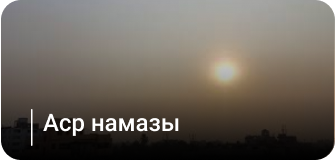
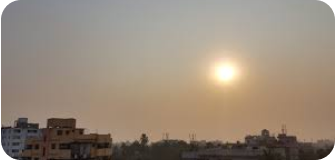
update page

diff --git a/lib/modules/home/view/besh_ubak_namaz.dart b/lib/modules/home/view/besh_ubak_namaz.dart
@@ -7,9 +7,8 @@ import '../../../components/models/namaz_page_model.dart';
 
 
 
-
-class UchNamazPage extends StatelessWidget {
-  const UchNamazPage({
+class BeshUbakNamazPage extends StatelessWidget {
+  const BeshUbakNamazPage({
     Key? key,
     this.onPressed,
     this.onTap,
@@ -38,7 +37,7 @@ class UchNamazPage extends StatelessWidget {
         children: [
           Expanded(
             child: GridView.builder(
-              itemCount: 3,
+              itemCount: 5,
               gridDelegate: SliverGridDelegateWithFixedCrossAxisCount(
                 crossAxisCount: 1,
                 childAspectRatio: MediaQuery.of(context).size.width /
@@ -58,7 +57,7 @@ class UchNamazPage extends StatelessWidget {
                         child: Stack(
                           children: [
                             Image.asset(
-                              'assets/png/${namazml[index].image}.png',
+                              'assets/png/${beshUbakNamaz[index].image}.png',
                               width: double.infinity,
                               height: double.infinity,
                               fit: BoxFit.cover,
@@ -67,7 +66,7 @@ class UchNamazPage extends StatelessWidget {
                             Positioned(
                               // ignore: sort_child_properties_last
                               child: Text(
-                                '| ${namazml[index].title}',
+                                '| ${beshUbakNamaz[index].title}',
                                 style: const TextStyle(
                                   fontSize: 27,
                                   color: Colors.white,

diff --git a/lib/modules/home/view/namaz_page.dart b/lib/modules/home/view/namaz_page.dart
@@ -6,12 +6,13 @@ import '../../../gen/assets.gen.dart';
 // ignore: depend_on_referenced_packages
 import 'package:provider/provider.dart';
 
+// ignore: must_be_immutable
 class NamazPage extends StatelessWidget {
   NamazPage({
     Key? key,
     this.onPressed,
   }) : super(key: key);
-  bool isCheckedRememberMe = false;
+
   bool isChecked = false;
   void Function()? onPressed;
   bool valor = true;
@@ -137,10 +138,6 @@ class NamazPage extends StatelessWidget {
               const SizedBox(height: 20),
               ElevatedButton(
                 onPressed: onPressed,
-                child: Text(
-                  'Баштоо',
-                  style: TextStyle(fontSize: 20),
-                ),
                 style: ElevatedButton.styleFrom(
                   backgroundColor: const Color(0xfff3473E6),
                   shape: RoundedRectangleBorder(
@@ -148,6 +145,10 @@ class NamazPage extends StatelessWidget {
                   ),
                   padding: const EdgeInsets.symmetric(
                       horizontal: 100.0, vertical: 12.0),
+                ),
+                child: const Text(
+                  'Баштоо',
+                  style: TextStyle(fontSize: 20),
                 ),
               ),
             ],

diff --git a/lib/components/models/namaz_page_model.dart b/lib/components/models/namaz_page_model.dart
@@ -1,0 +1,72 @@
+// ignore_for_file: public_member_api_docs, sort_constructors_first
+class Namazml {
+  const Namazml({
+    required this.title,
+    required this.image,
+  });
+
+  final String title;
+  final String image;
+}
+
+const namaz = Namazml(
+  title: '5 убакыт намаз',
+  image: 'namaz',
+);
+
+const ait = Namazml(
+  title: 'Айт намаз',
+  image: 'ait',
+);
+
+const nafil = Namazml(
+  title: 'Нафил намаз',
+  image: 'nafil',
+);
+
+List<Namazml> namazml = [
+  namaz,
+  ait,
+  nafil,
+];
+class BeshUbakNamaz {
+  const BeshUbakNamaz({
+    required this.title,
+    required this.image,
+  });
+
+  final String title;
+  final String image;
+}
+
+const bagimdat = BeshUbakNamaz(
+  title: 'Багымдат намазы',
+  image: 'bagimdat',
+);
+
+const beshim = BeshUbakNamaz(
+  title: 'Бешим намазы',
+  image: 'beshim',
+);
+
+const asr = BeshUbakNamaz(
+  title: 'Аср намазы',
+  image: 'asr',
+);
+const sham = BeshUbakNamaz(
+  title: 'Шам намазы',
+  image: 'sham',
+);
+const kuptan = BeshUbakNamaz(
+  title: 'Куптан намазы',
+  image: 'kuptan',
+);
+
+List<BeshUbakNamaz> beshUbakNamaz = [
+  bagimdat,
+  beshim,
+  asr,
+  sham,
+  kuptan
+  
+];

diff --git a/lib/modules/home/view/home_view.dart b/lib/modules/home/view/home_view.dart
@@ -1,4 +1,5 @@
 import 'package:bir_umma/modules/home/view/Uch_namaz_page.dart';
+import 'package:bir_umma/modules/home/view/besh_ubak_namaz.dart';
 import 'package:bir_umma/modules/home/view/namaz_page.dart';
 import 'package:flutter/material.dart';
 
@@ -14,11 +15,15 @@ class HomeView extends StatelessWidget {
         controller: controller,
         children: [
           NamazPage(
-            onPressed: () => controller.jumpToPage(5),
+            onPressed: () => controller.jumpToPage(1),
           ),
           UchNamazPage(
             onPressed: () => controller.jumpToPage(0),
+            onTap: () => controller.jumpToPage(2),
           ),
+          BeshUbakNamazPage(
+            onPressed: () => controller.jumpToPage(1),
+          )
         ],
       ),
     );

diff --git a/lib/components/card/carfNamaz.dart b/lib/components/card/carfNamaz.dart
@@ -9,12 +9,12 @@ class CardNamaz extends StatelessWidget {
   @override
   Widget build(BuildContext context) {
     return Card(
-      child: fonCard,
       shape: RoundedRectangleBorder(
-        borderRadius: BorderRadius.circular(10.0),
+        borderRadius: BorderRadius.circular(18),
       ),
-      elevation: 5,
-      margin: EdgeInsets.all(10),
+      elevation: 0,
+      margin: const EdgeInsets.all(5),
+      child: fonCard,
     );
   }
 }

diff --git a/lib/constants/color.dart b/lib/constants/color.dart
@@ -4,4 +4,9 @@ class Appcolors {
   static const Color appBar = Color(0xffFFFFFF);
   static const Color textNz = Color(0xff808080);
   static const Color lineappr = Color(0xffC8C8C8);
+  static const Color white = Color(0xffffffff);
+  static const Color black = Color(0x00000000);
+  static const Color blue = Color(0xff0D96FC);
+  static const Color yellow = Color(0xffFFB900);
+  static const Color grey = Color(0xff73777B);
 }
